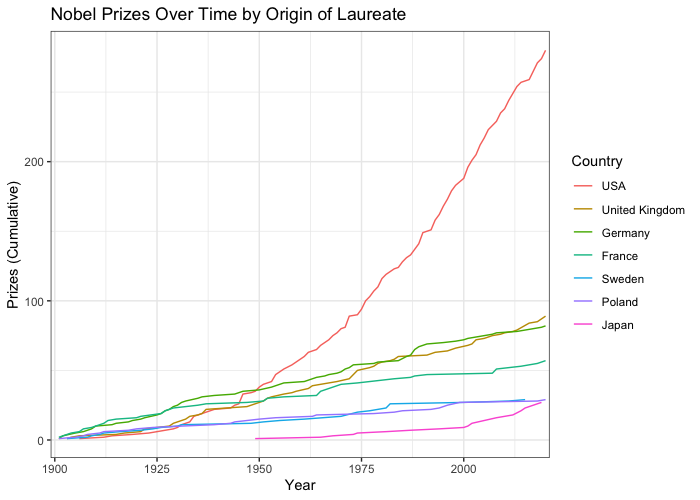
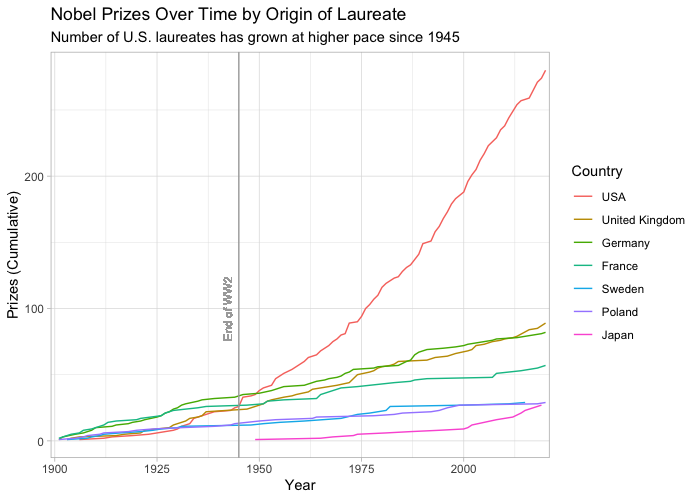
better readme plot

diff --git a/README.md b/README.md
@@ -11,11 +11,8 @@
 ## About this package
 
 `primer.data` provides the data used in *[Preceptor’s Primer for
-Bayesian Data Science](https://ppbds.github.io/primer)*, the textbook
-used in [Gov 1005: Big
-Data](https://www.davidkane.info/files/gov_1005_spring_2021.html) at
-Harvard University, and for the [associated
-tutorials](https://ppbds.github.io/primer.tutorials).
+Bayesian Data Science](https://ppbds.github.io/primer)* and for the
+[associated tutorials](https://ppbds.github.io/primer.tutorials).
 
 ## Installation
 
@@ -32,19 +29,19 @@ library(tidyverse)
 library(primer.data)
 
 qscores
-#> # A tibble: 748 x 8
-#>    name             department number term   enrollment hours rating instructor 
-#>    <chr>            <chr>      <chr>  <chr>       <int> <dbl>  <dbl> <chr>      
-#>  1 Introduction to… AFRAMER    100Y   2019-…         49   2.6    4.2 Jesse McCa…
-#>  2 American Democr… AFRAMER    123Z   2019-…         49   3.6    4.4 Cornel West
-#>  3 Urban Inequalit… AFRAMER    125X   2019-…         40   5.2    4.5 Elizabeth …
-#>  4 Richard Wright   AFRAMER    130X   2019-…         23   7.2    4.4 Glenda Car…
-#>  5 19th century Bl… AFRAMER    131Y   2019-…         20   3.5    4.9 Linda Chav…
-#>  6 Social Revoluti… AFRAMER    199X   2019-…         19   7.2    4.8 Alejandro …
-#>  7 Martin Luther K… AFRAMER    199Y   2019-…         40   4.2    4.7 Brandon Mi…
-#>  8 Elementary Afri… AFRIKAAN   AB     2019-…         22   2.9    4.9 John M Mug…
-#>  9 Elementary Jama… JAMAICAN   AB     2019-…         18   1.5    4.9 John M Mug…
-#> 10 Elementary West… WSTAFRCN   AB     2019-…         29   2.6    4   John M Mug…
+#> # A tibble: 748 × 9
+#>    name       department number term   enrollment hours rating instructor female
+#>    <chr>      <chr>      <chr>  <chr>       <int> <dbl>  <dbl> <chr>       <dbl>
+#>  1 Introduct… AFRAMER    100Y   2019-…         49   2.6    4.2 Jesse McC…      0
+#>  2 American … AFRAMER    123Z   2019-…         49   3.6    4.4 Cornel We…      0
+#>  3 Urban Ine… AFRAMER    125X   2019-…         40   5.2    4.5 Elizabeth…      1
+#>  4 Richard W… AFRAMER    130X   2019-…         23   7.2    4.4 Glenda Ca…      1
+#>  5 19th cent… AFRAMER    131Y   2019-…         20   3.5    4.9 Linda Cha…      1
+#>  6 Social Re… AFRAMER    199X   2019-…         19   7.2    4.8 Alejandro…      0
+#>  7 Martin Lu… AFRAMER    199Y   2019-…         40   4.2    4.7 Brandon M…      0
+#>  8 Elementar… AFRIKAAN   AB     2019-…         22   2.9    4.9 John M Mu…      0
+#>  9 Elementar… JAMAICAN   AB     2019-…         18   1.5    4.9 John M Mu…      0
+#> 10 Elementar… WSTAFRCN   AB     2019-…         29   2.6    4   John M Mu…      0
 #> # … with 738 more rows
 ```
 
@@ -54,47 +51,43 @@ Once the library is loaded and you have confirmed that it can be
 accessed in your local environment, the data sets can be called as
 objects and used like any other data you would otherwise read in and
 assign to an object manually. See the following example of a plot using
-`primary.data::cces`.
+`primary.data::nobel`.
 
 ``` r
 library(tidyverse)
 library(primer.data)
 
-cces %>% 
-  select(state, faminc, ideology) %>% 
-  mutate(ideology = as.double(fct_recode(ideology, 
-                                          '1' = 'Very Liberal',
-                                          '2' = 'Liberal',
-                                          '3' = 'Moderate',
-                                          '4' = 'Conservative',
-                                          '5' = 'Very Conservative',
-                                          '6' = 'Not Sure'))) %>% 
-  mutate(faminc = as.numeric(fct_recode(faminc, 
-                                        '1' = 'Less than 10k',
-                                        '2' = '10k - 20k',
-                                        '3' = '20k - 30k',
-                                        '4' = '30k - 40k',
-                                        '5' = '40k - 50k',
-                                        '6' = '50k - 60k',
-                                        '7' = '60k - 70k',
-                                        '8' = '70k - 80k',
-                                        '9' = '80k - 100k',
-                                        '10' = '100k - 120k',
-                                        '11' = '120k - 150k',
-                                        '12' = '150k+'))) %>% 
-  mutate(state = str_replace(state, "District of Columbia", "D.C.")) %>% 
-  mutate(state = as.factor(state)) %>% 
-  filter(ideology != 6) %>% 
-  drop_na() %>% 
-  
-    ggplot(., aes(x = ideology, y = faminc)) +
-      geom_smooth(formula = "y ~ x", method = "lm", se = FALSE) +
-      facet_wrap(~ state) +
-      labs(title = "Relation Between Family Income and Political Ideology",
-           subtitle = "High income tends to be associated with being conservative, especially in red states",
-           x = "Ideology, higher values = more conservative",
-           y = "Annual family income, higher values = higher income") +
-      theme_linedraw()
+nobel %>%
+  group_by(born_country, year) %>%
+  summarize(prizes = n()) %>%
+  mutate(cum_prize = cumsum(prizes)) %>%
+  ungroup() %>%
+  filter(born_country %in% c("USA", "United Kingdom", 
+                                     "Germany", "France", 
+                                     "Poland", "Sweden", 
+                                     "Japan")) %>%
+  mutate(born_country = factor(born_country, levels = c("USA", "United Kingdom",
+                                                        "Germany", "France", 
+                                                        "Sweden", "Poland", 
+                                                        "Japan"))) %>% 
+
+ggplot(., aes(x = year, y = cum_prize, color = factor(born_country))) +
+  geom_line() +
+  geom_vline(aes(xintercept = 1945), color = "darkgrey") +
+  geom_text(aes(x = 1941, 
+                y = 100, 
+                label = "End of WW2"), 
+                color = "darkgrey", 
+                angle = 90, 
+                vjust = 1.2,
+                size = 3) +
+  scale_x_continuous(limits = c(1900, 2020),  expand = expand_scale(0, 1)) +
+  labs(title = "Nobel Prizes Over Time by Origin of Laureate",
+       subtitle = "Number of U.S. laureates has grown at higher pace since 1945",
+       y = "Prizes (Cumulative)",
+       x = "Year",
+       color = "Country") +
+  theme_light()
 ```
 
 <!-- DK: We need some comments explaining what this is doing and how we can replace it. Specifically, why place the figure in man/ rather than inst/? Why can't we just have this code run and save/show the image? Hate the eval=FALSE above. -->
@@ -108,7 +101,7 @@ citation("primer.data")
 #> 
 #> To cite 'primer.data' in publications use:
 #> 
-#>   David Kane. 2020. 'primer.data'. R package version 0.1.0,
+#>   Kane, D., & Weiss, T. (2021), 'primer.data'. R package version 0.1.0,
 #>   <https://github.com/PPBDS/primer.data>.
 #> 
 #> A BibTeX entry for LaTeX users is
@@ -116,7 +109,8 @@ citation("primer.data")
 #>   @Manual{,
 #>     title = {primer.data},
 #>     author = {David Kane},
-#>     year = {2020},
+#>     author = {David Kane},
+#>     year = {2021},
 #>     url = {https://github.com/PPBDS/primer.data},
 #>   }
 ```
